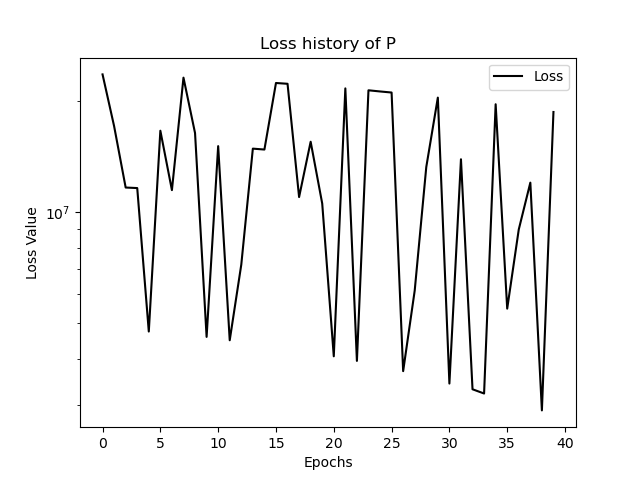
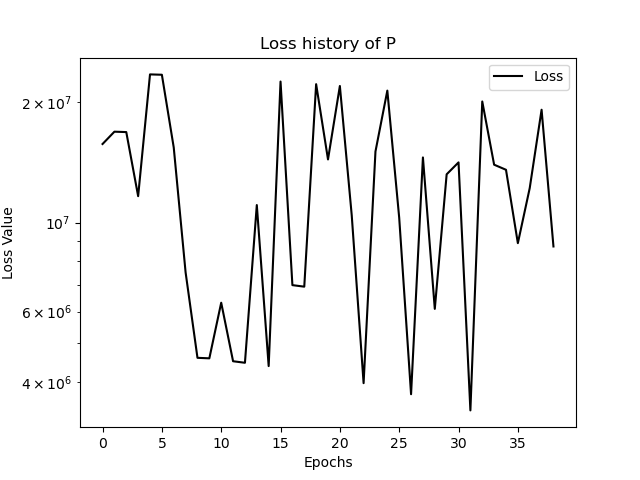
a bug fixed: write coords for first field only

diff --git a/FNN/train.py b/FNN/train.py
@@ -29,7 +29,11 @@ def train(numOfEpochs:int=5, fields:list=["T"], trainSet:list=["C001"], testSet:
 
   #----------------------------------------------------------------------------
   # train fields
+
+  ifield = 0
+
   for var in fields:
+    ifield += 1
     fsDataset_train = FSimDataset(filePathH5, trainSet, var)
 
     # gen a obj as regression, and then train the model
@@ -59,9 +63,12 @@ def train(numOfEpochs:int=5, fields:list=["T"], trainSet:list=["C001"], testSet:
     inp, _, coords = fsDataset_test[0]
 
     # 1-predict first and then write the predicting data to h5 database
-    # coordinates are optional 
-    R.write2HDF(inp, Path("./fnn.h5"), coords=coords)
+    # coordinates are optional
+
+    if ifield == 1:
+      R.write2HDF(inp, Path("./fnn.h5"), coords=coords)
+    else:
+      R.write2HDF(inp, Path("./fnn.h5"), coords=None)
 
   iSuccess = True
   return iSuccess
-

diff --git a/FNN/FNN_main.py b/FNN/FNN_main.py
@@ -31,7 +31,7 @@ h5.close()
 #------------------------------------------------------------------------------
 # train the fields one has assigned, which must belong in ["P", "T", "U", "V", "W"]
 
-varfiels = ["T"]
+varfiels = ["T", "P"]
 iSuccess = train( numOfEpochs=1, fields=varfiels , trainSet=trnSet, testSet=tstSet )
 #print("Train Pres Successed? ", iSuccess)
 
